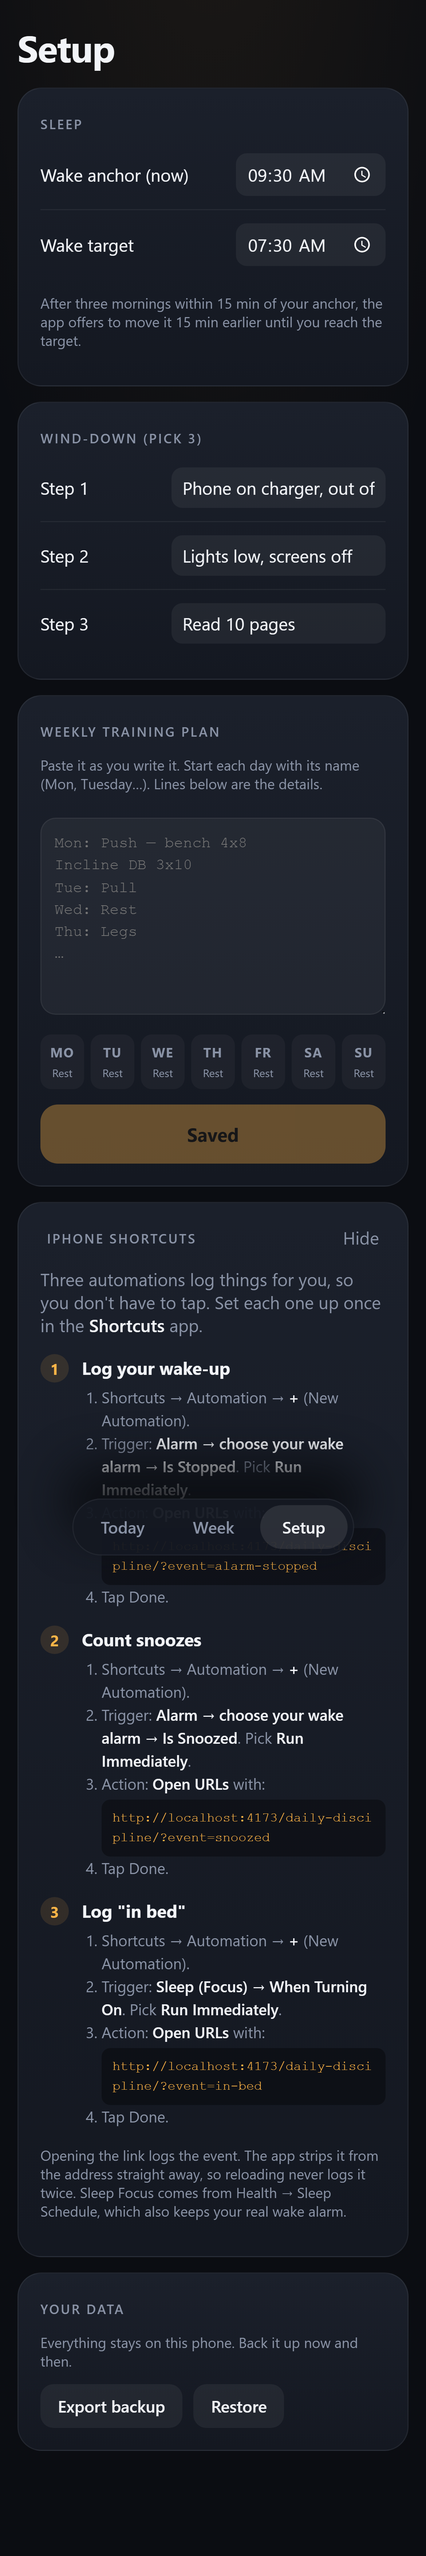
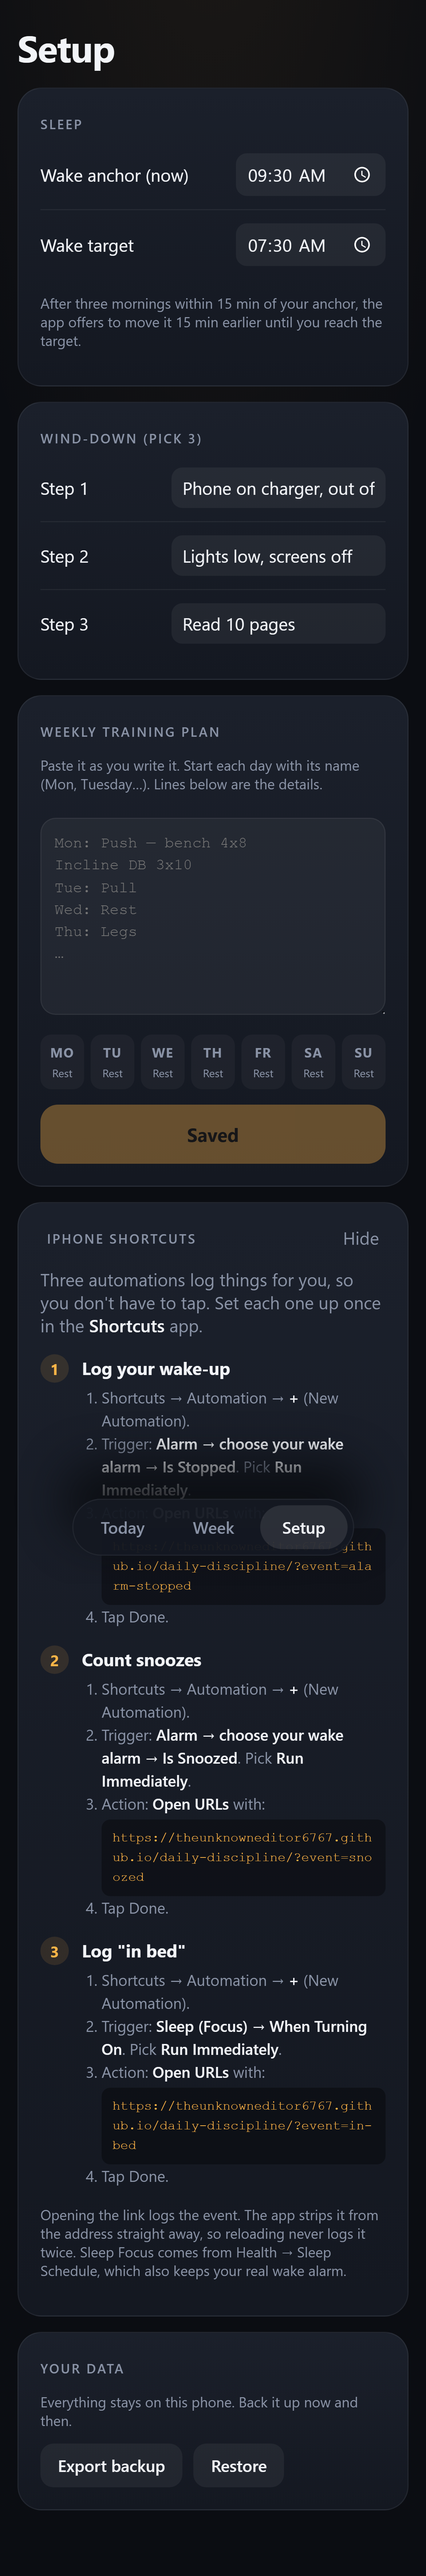
Shortcut guide shows the live GitHub Pages URL

diff --git a/tests/e2e/morning.spec.ts b/tests/e2e/morning.spec.ts
@@ -51,7 +51,7 @@ test('Setup shows the Shortcut guide with event URLs', async ({ page }) => {
   await page.getByRole('button', { name: 'Setup' }).click();
   await page.getByRole('button', { name: /iPhone Shortcuts/ }).click();
   const guide = page.getByTestId('shortcut-guide');
-  await expect(guide).toContainText('/daily-discipline/?event=alarm-stopped');
+  await expect(guide).toContainText('https://theunknowneditor6767.github.io/daily-discipline/?event=alarm-stopped');
   await expect(guide).toContainText('?event=snoozed');
   await expect(guide).toContainText('?event=in-bed');
   await page.screenshot({ path: 'docs/screenshots/04-setup-shortcuts.png', fullPage: true, animations: 'disabled' });

diff --git a/src/ui/ShortcutGuide.tsx b/src/ui/ShortcutGuide.tsx
@@ -1,4 +1,6 @@
-const base = () => `${location.origin}${location.pathname}`;
+/** The installed app's address; Shortcuts must open this exact URL so events land in the home-screen app's storage. */
+export const LIVE_URL = 'https://theunknowneditor6767.github.io/daily-discipline/';
+const base = () => LIVE_URL;
 
 const AUTOMATIONS = [
   {
